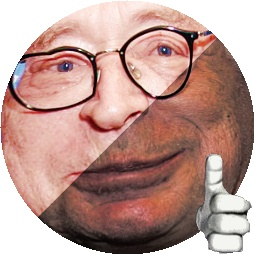
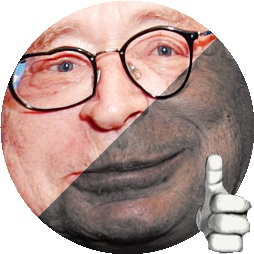
improve saturation scaling

Changed region(s): [[0.2756, 0.1654, 0.937, 0.9094]]

diff --git a/faceball/ball_mask.py b/faceball/ball_mask.py
@@ -5,7 +5,8 @@ import numpy as np
 
 # parameters chosen "empirically"
 lightness_exponent = 1.7
-saturation_coeff = .25
+saturation_exponent = 1.9
+saturation_shrink = 0.5 # dark half only
 
 def tint_region(hls, face_mask, vertices, light):
 	"""tint_region(hls, face_mask, vertices, light) -> None
@@ -22,15 +23,18 @@ def tint_region(hls, face_mask, vertices, light):
 	
 	mask = np.bitwise_and(mask, face_mask)
 	
-	lightness = hls[mask == 255,1] / 255
-	if light:
-		new_lightness = 1 - (1 - lightness)**lightness_exponent
-	else:
-		new_lightness = lightness**lightness_exponent
-	hls[mask == 255,1] = 255 * new_lightness
+	hls[mask == 255,1] = scale(hls[mask == 255,1], lightness_exponent, light)
 	
-	target_saturation = 255 * saturation_coeff if light else 0
-	hls[mask == 255,2] = (1 - saturation_coeff) * hls[mask == 255,2] + target_saturation
+	max_saturation = 1 if light else saturation_shrink
+	hls[mask == 255,2] = max_saturation * scale(hls[mask == 255,2], saturation_exponent, light)
+
+def scale(values, exponent, light):
+	norm = values / 255
+	if light:
+		new_values = 1 - (1 - norm)**exponent
+	else:
+		new_values = norm**exponent
+	return 255 * new_values
 
 def mask_face(bgr, target_circle):
 	"""mask_face(bgr, target_circle) -> BGRA image
